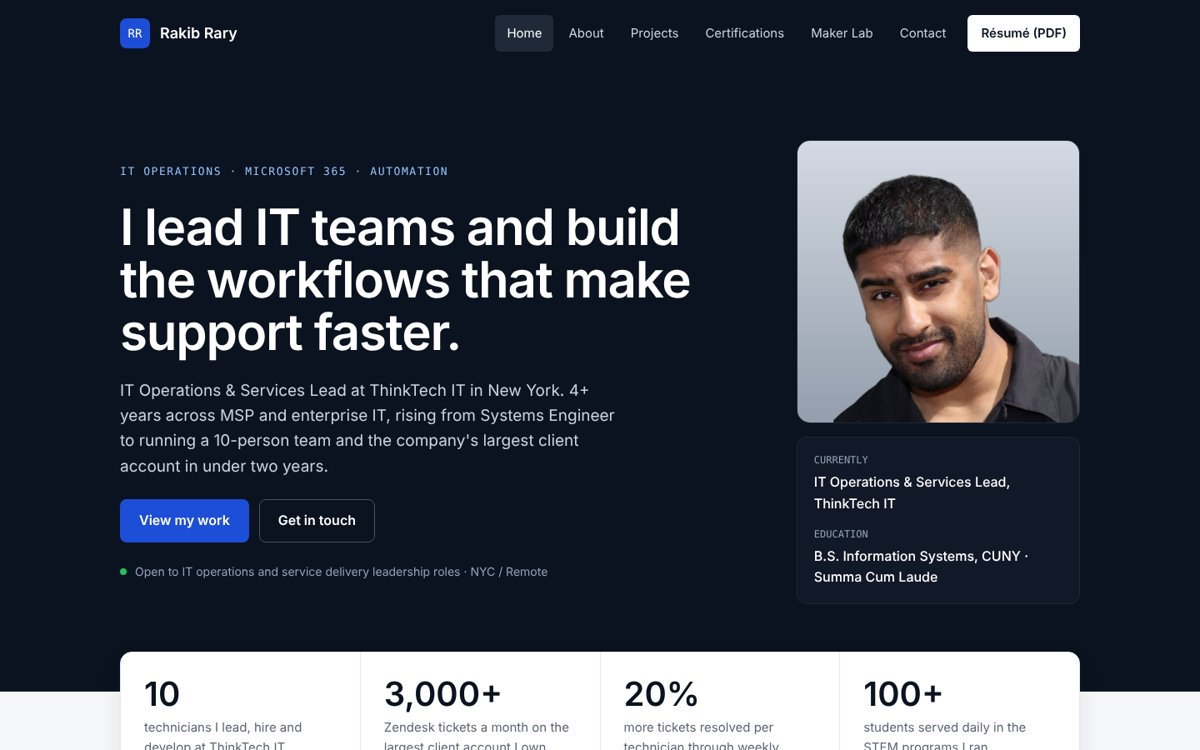
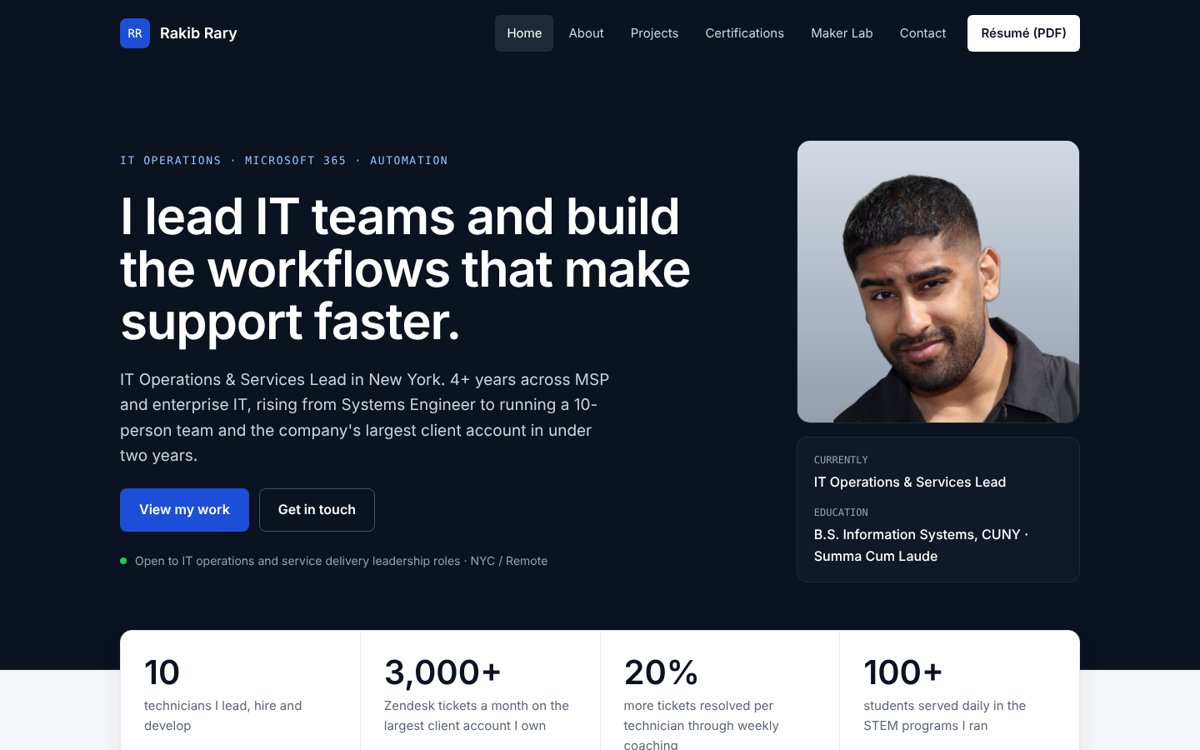
Remove employer name from home page

Changed region(s): [[0.0925, 0.184, 0.5858, 0.7667], [0.0, 0.828, 1.0, 1.0], [0.6783, 0.644, 0.8633, 0.7973]]

diff --git a/index.html b/index.html
@@ -39,7 +39,7 @@
     <div class="hero-text">
       <p class="eyebrow light">IT Operations · Microsoft 365 · Automation</p>
       <h1>I lead IT teams and build the workflows that make support faster.</h1>
-      <p class="lead">IT Operations &amp; Services Lead at ThinkTech IT in New York. 4+ years across MSP and enterprise IT, rising from Systems Engineer to running a 10-person team and the company's largest client account in under two years.</p>
+      <p class="lead">IT Operations &amp; Services Lead in New York. 4+ years across MSP and enterprise IT, rising from Systems Engineer to running a 10-person team and the company's largest client account in under two years.</p>
       <div class="btn-row">
         <a class="btn btn-primary" href="projects.html">View my work</a>
         <a class="btn btn-ghost-dark" href="contact.html">Get in touch</a>
@@ -51,7 +51,7 @@
         <img src="assets/img/headshot.jpg" alt="Portrait of Rakib Rary">
       </div>
       <div class="status-card">
-        <div><p class="label">CURRENTLY</p><p class="value">IT Operations &amp; Services Lead, ThinkTech IT</p></div>
+        <div><p class="label">CURRENTLY</p><p class="value">IT Operations &amp; Services Lead</p></div>
         <div><p class="label">EDUCATION</p><p class="value">B.S. Information Systems, CUNY · Summa Cum Laude</p></div>
       </div>
     </div>
@@ -61,7 +61,7 @@
 <main id="main">
   <section class="container" aria-label="Highlights">
     <div class="stats">
-      <div class="stat"><p class="stat-num">10</p><p class="stat-label">technicians I lead, hire and develop at ThinkTech IT</p></div>
+      <div class="stat"><p class="stat-num">10</p><p class="stat-label">technicians I lead, hire and develop</p></div>
       <div class="stat"><p class="stat-num">3,000+</p><p class="stat-label">Zendesk tickets a month on the largest client account I own</p></div>
       <div class="stat"><p class="stat-num">20%</p><p class="stat-label">more tickets resolved per technician through weekly coaching</p></div>
       <div class="stat"><p class="stat-num">100+</p><p class="stat-label">students served daily in the STEM programs I ran</p></div>
